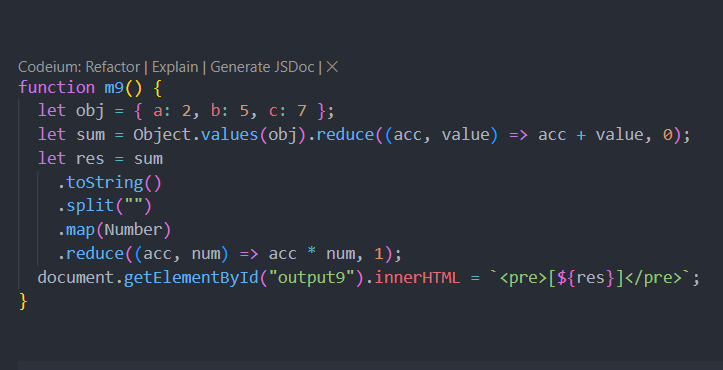
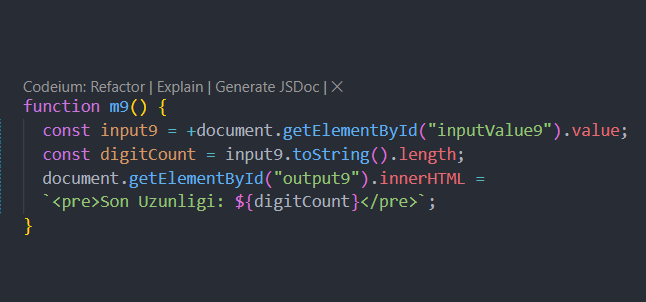
ninth

Changed region(s): [[0.031, 0.149, 0.9907, 0.7748], [0.031, 0.8046, 0.0619, 0.8344]]

diff --git a/app.js b/app.js
@@ -142,16 +142,24 @@ function m8() {
 
 
 
+
 function m9() {
-  let obj = { a: 2, b: 5, c: 7 };
-  let sum = Object.values(obj).reduce((acc, value) => acc + value, 0);
-  let res = sum
-    .toString()
-    .split("")
-    .map(Number)
-    .reduce((acc, num) => acc * num, 1);
-  document.getElementById("output9").innerHTML = `<pre>[${res}]</pre>`;
+  const input9 = +document.getElementById("inputValue9").value;
+  const digitCount = input9.toString().length;
+  document.getElementById("output9").innerHTML = 
+  `<pre>Son Uzunligi: ${digitCount}</pre>`;
 }
+
+
+
+
+
+
+
+
+
+
+
 
 
 

diff --git a/index.html b/index.html
@@ -286,6 +286,7 @@
             aniqlaydigan function tuzing.
           </h2>
           <br />
+          <input type="text" id="inputValue9" placeholder="Ex: 1234" />
           <button class="button-85" role="button" onclick="m9()">
             Hisoblash
           </button>
